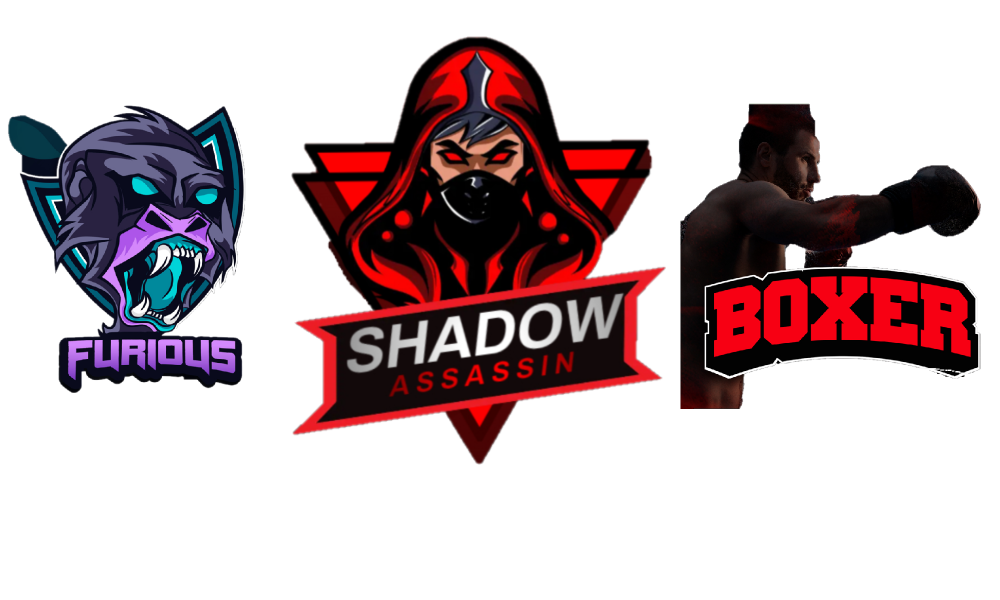
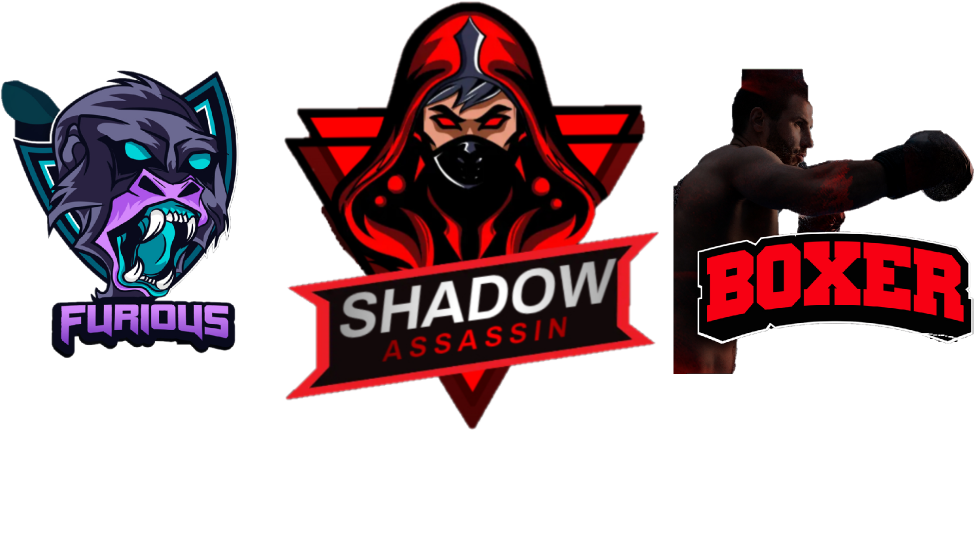
test

Changed region(s): [[0.2769, 0.0, 1.0, 0.7798], [0.0, 0.1248, 0.2462, 0.655]]

diff --git a/style.css b/style.css
@@ -423,7 +423,7 @@ cursor: pointer;
   position: relative;
   width: 1500px;
   height: 300px;
-  left: 20px;
+  left: 40px;
   top: 0px;
 }
 
@@ -431,6 +431,15 @@ cursor: pointer;
    width: 800px;
    height: 300px;
    margin-top: 0px;
+}
+
+#catalog .catalogimg:hover {
+  background: rgba(0, 0, 0, 0.2);
+  border: 2px solid #E55B13;
+  border-radius: 20px;
+  transition: 0.2s ease;
+  width: 805px;
+  height: 305px;
 }
 
 #catalog .explore {
@@ -466,7 +475,6 @@ cursor: pointer;
   top: 185px;
 }
 
-
 #catalog .button:hover {
   border: 3px solid #FFFFFF;
   width: 240px;
@@ -491,7 +499,7 @@ cursor: pointer;
   align-items: center;
   background-color: rgba(0, 0, 0, 0.3);
   position: absolute;
-  top: 2995px;
+  top: 2800px;
   padding-left: 200px;
   height: 20vh;
   width: 100%;
@@ -555,7 +563,7 @@ footer {
   display: flex;
   flex-wrap: wrap;
   justify-content: space-between;
-  top: 2565px;
+  top: 2367px;
   position: relative;
   background: linear-gradient(180deg, rgba(0, 0, 0, 0.3) 0%, rgba(0, 0, 0, 0.3) 19.27%, rgba(0, 0, 0, 0.3) 23.96%, rgba(0, 0, 0, 0.3) 29.17%, rgba(0, 0, 0, 0.3) 54.17%, rgba(229, 91, 19, 0.5) 100%);
 }
@@ -703,12 +711,17 @@ footer strong {
     display: none;
   }
 
+  #header img {
+    width: 200px;
+    height: 110px;
+  }
+
   /* Hero Starts Here */
 
   #hero{
     height: 70vh;
     background-position: top 30% right 30;
-    padding: 20px 80px;
+    padding: 20px 70px;
   }
 
   #hero h1{
@@ -719,6 +732,7 @@ footer strong {
   #hero h3{
     padding-bottom: 15px;
     font-size: 18px;
+    z-index: 1;
   }
   
   #hero .startgaming{
@@ -743,11 +757,11 @@ footer strong {
   }
   
   #hero .biglogo {
-    width: 434px;
-    height: 279px;
+    width: 400px;
+    height: 250px;
     position: absolute;
     top: 195px;
-    left: 304px;
+    left: 350px;
     cursor: pointer;
   }
 
@@ -1044,8 +1058,8 @@ footer h5 {
     width: 180px;
     height: 100px;
     position: absolute;
-    top: 110px;
-    left: 195px;
+    top: 112px;
+    left: 190px;
   }
 
 
